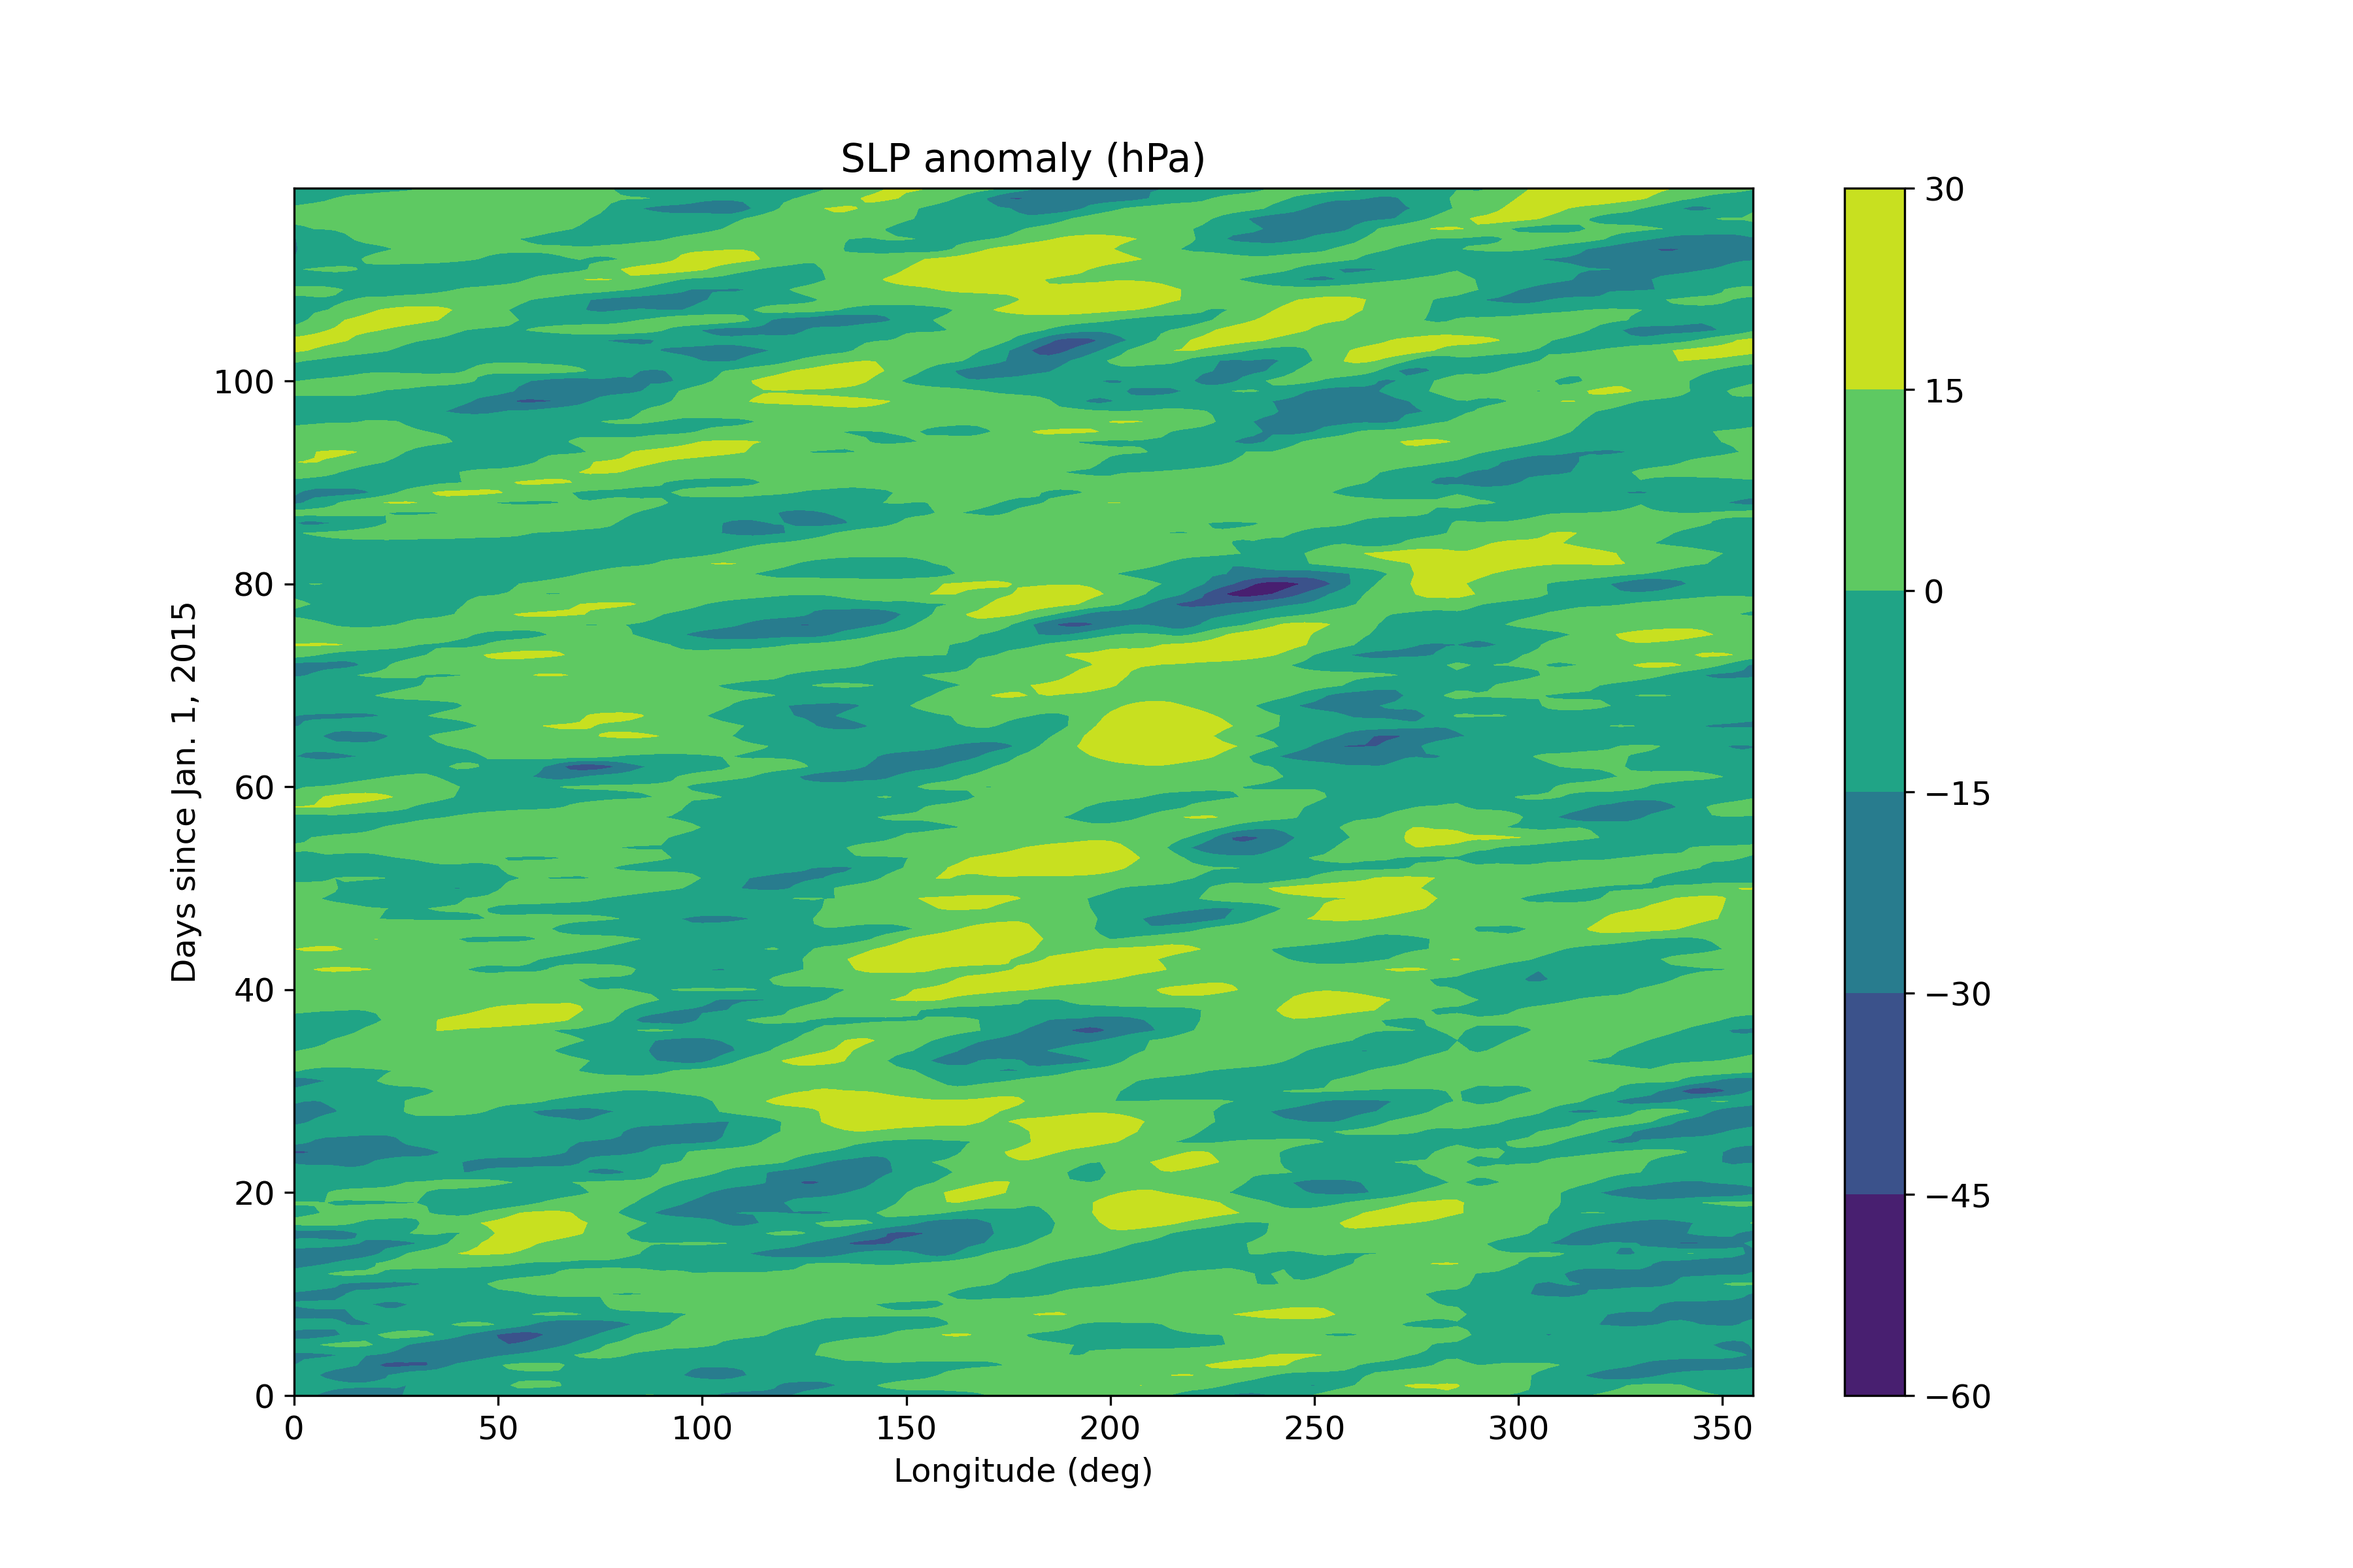
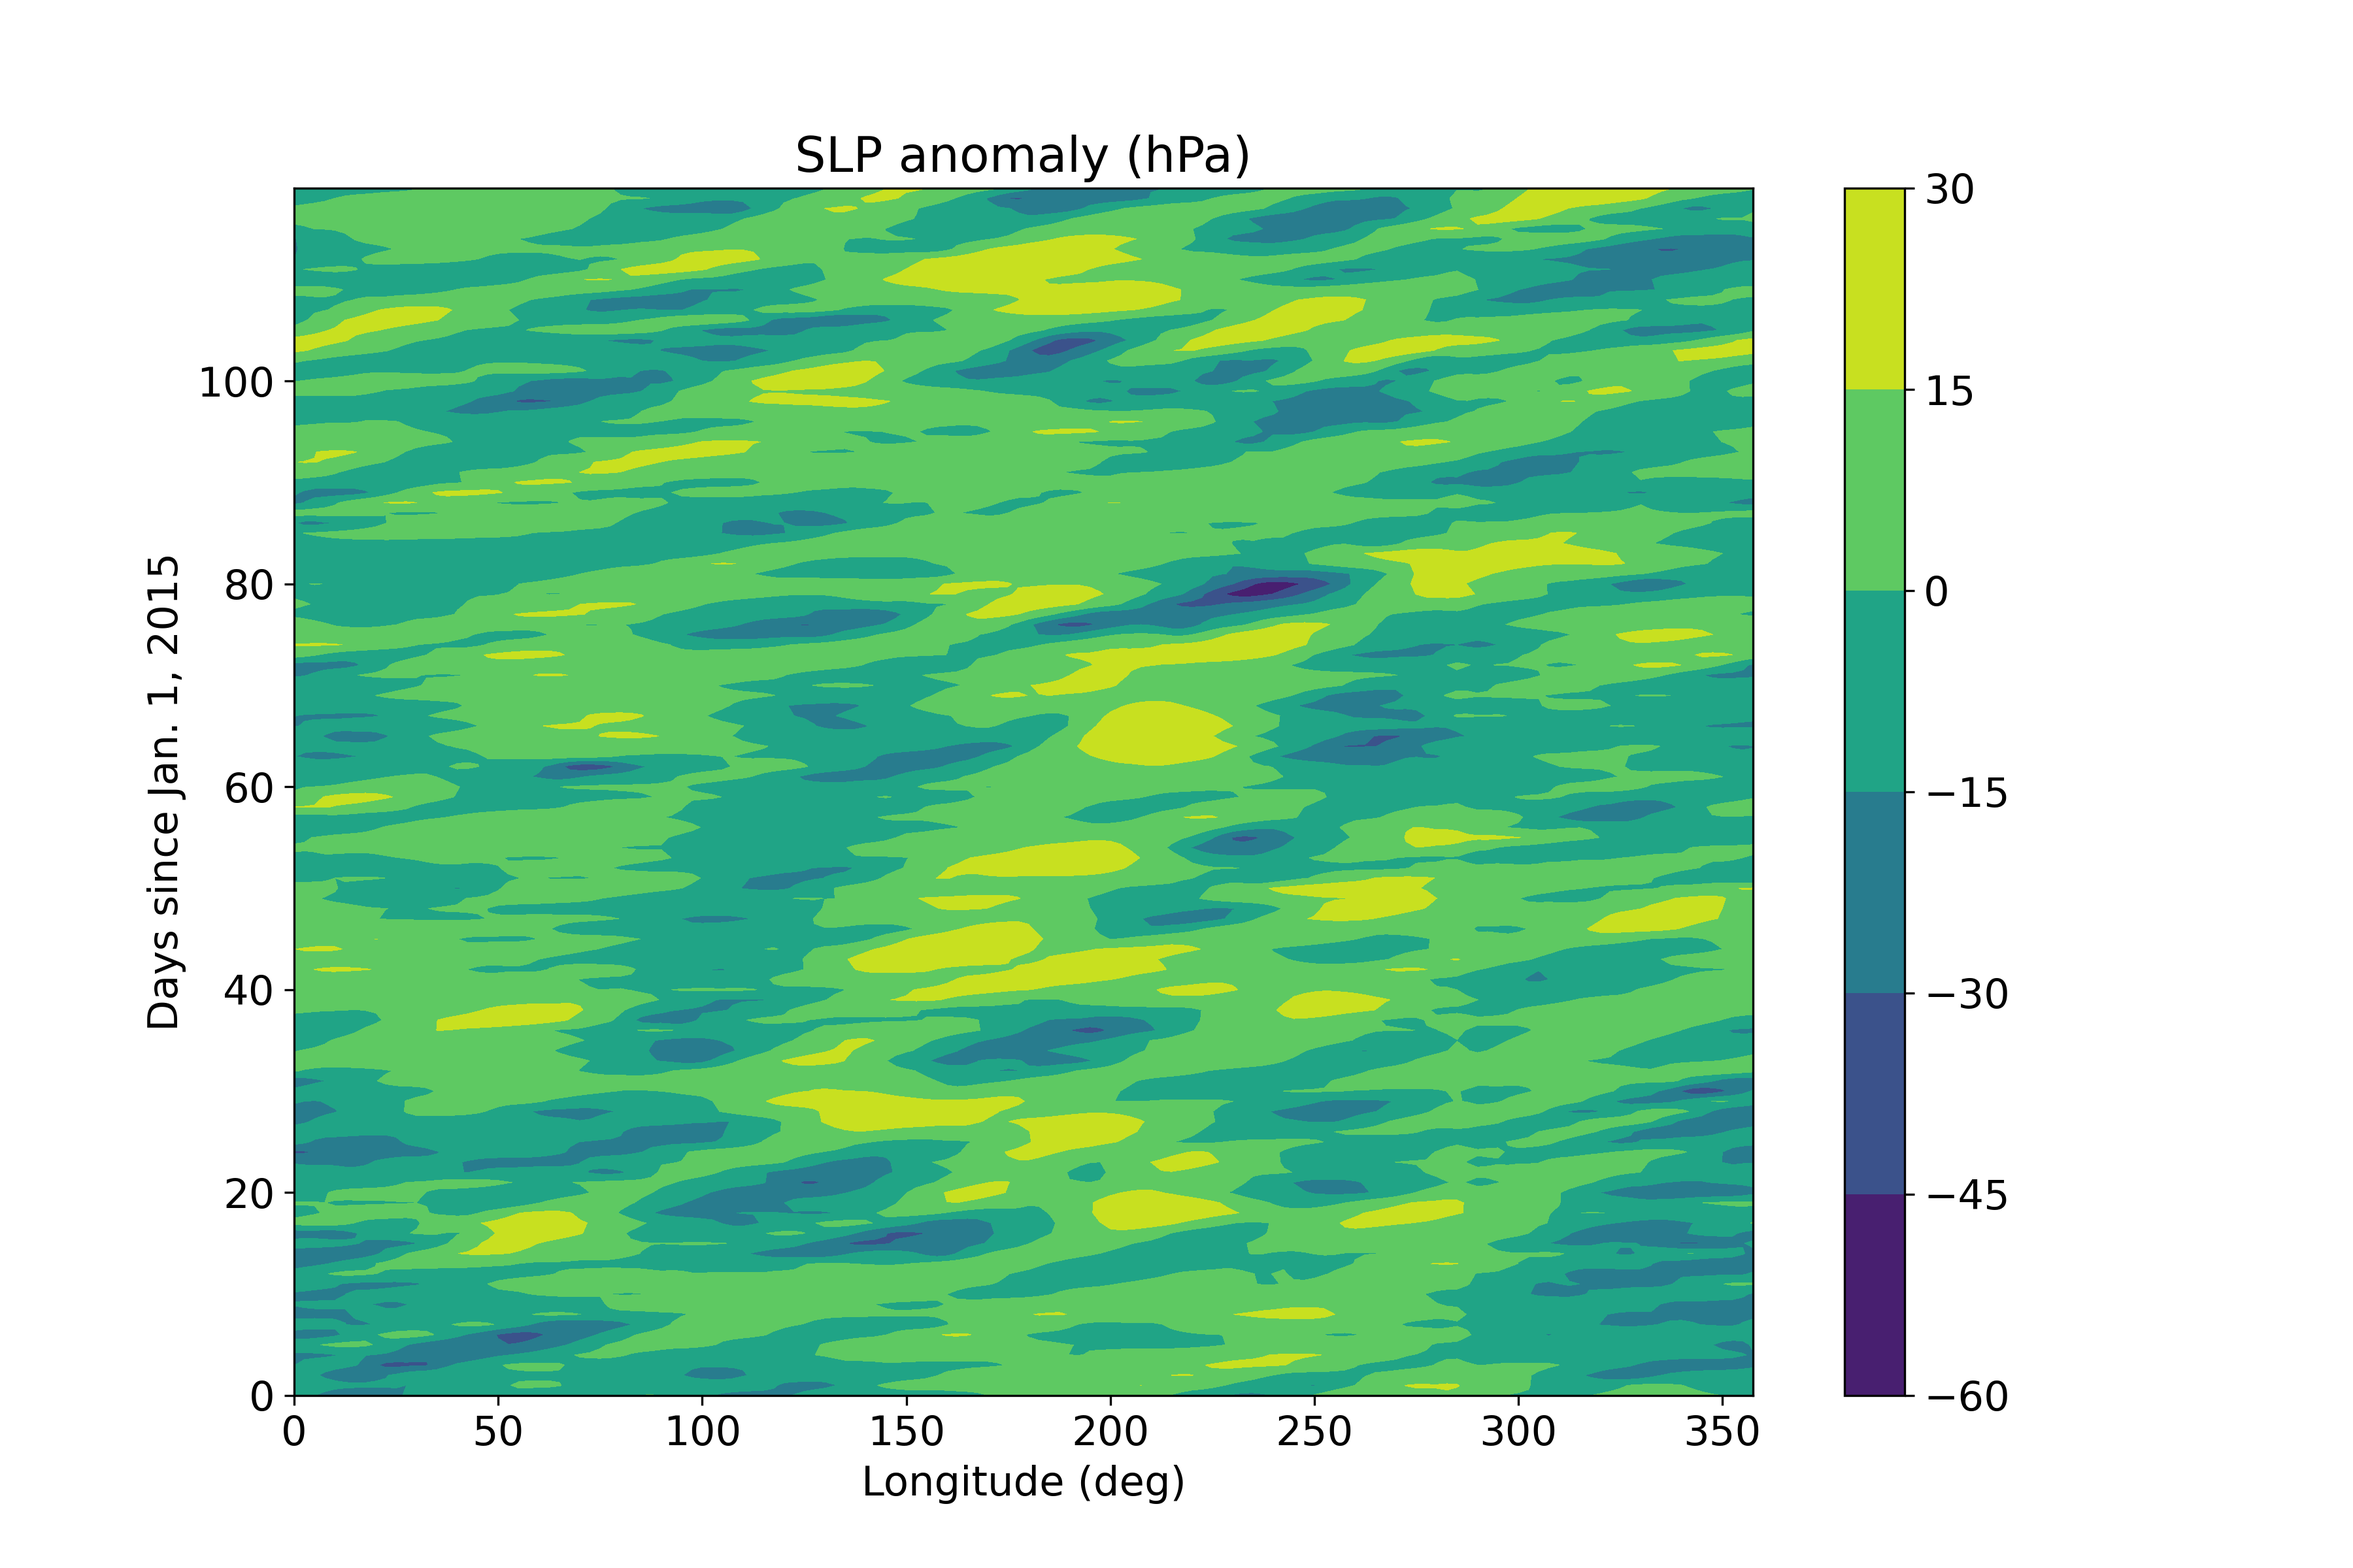
Increased font sizes.

diff --git a/Week05/Lab05_Q02.py b/Week05/Lab05_Q02.py
@@ -71,7 +71,7 @@ import matplotlib.pyplot as plt
 # Plotting parameters
 fig_size = (12, 10)
 dpi = 300
-plt.rcParams.update({'font.size': 12})
+plt.rcParams.update({'font.size': 15})
 
 # Audio
 sample_rate, audio_data = wav.read('GraviteaTime.wav')

diff --git a/Week05/Lab05_Q03.py b/Week05/Lab05_Q03.py
@@ -43,7 +43,7 @@ import matplotlib.pyplot as plt
 # Plotting parameters
 fig_size = (12, 8)
 dpi = 300
-plt.rcParams.update({'font.size': 12})
+plt.rcParams.update({'font.size': 15})
 
 # Extract data
 longitude = np.loadtxt('lon.txt') # degrees
